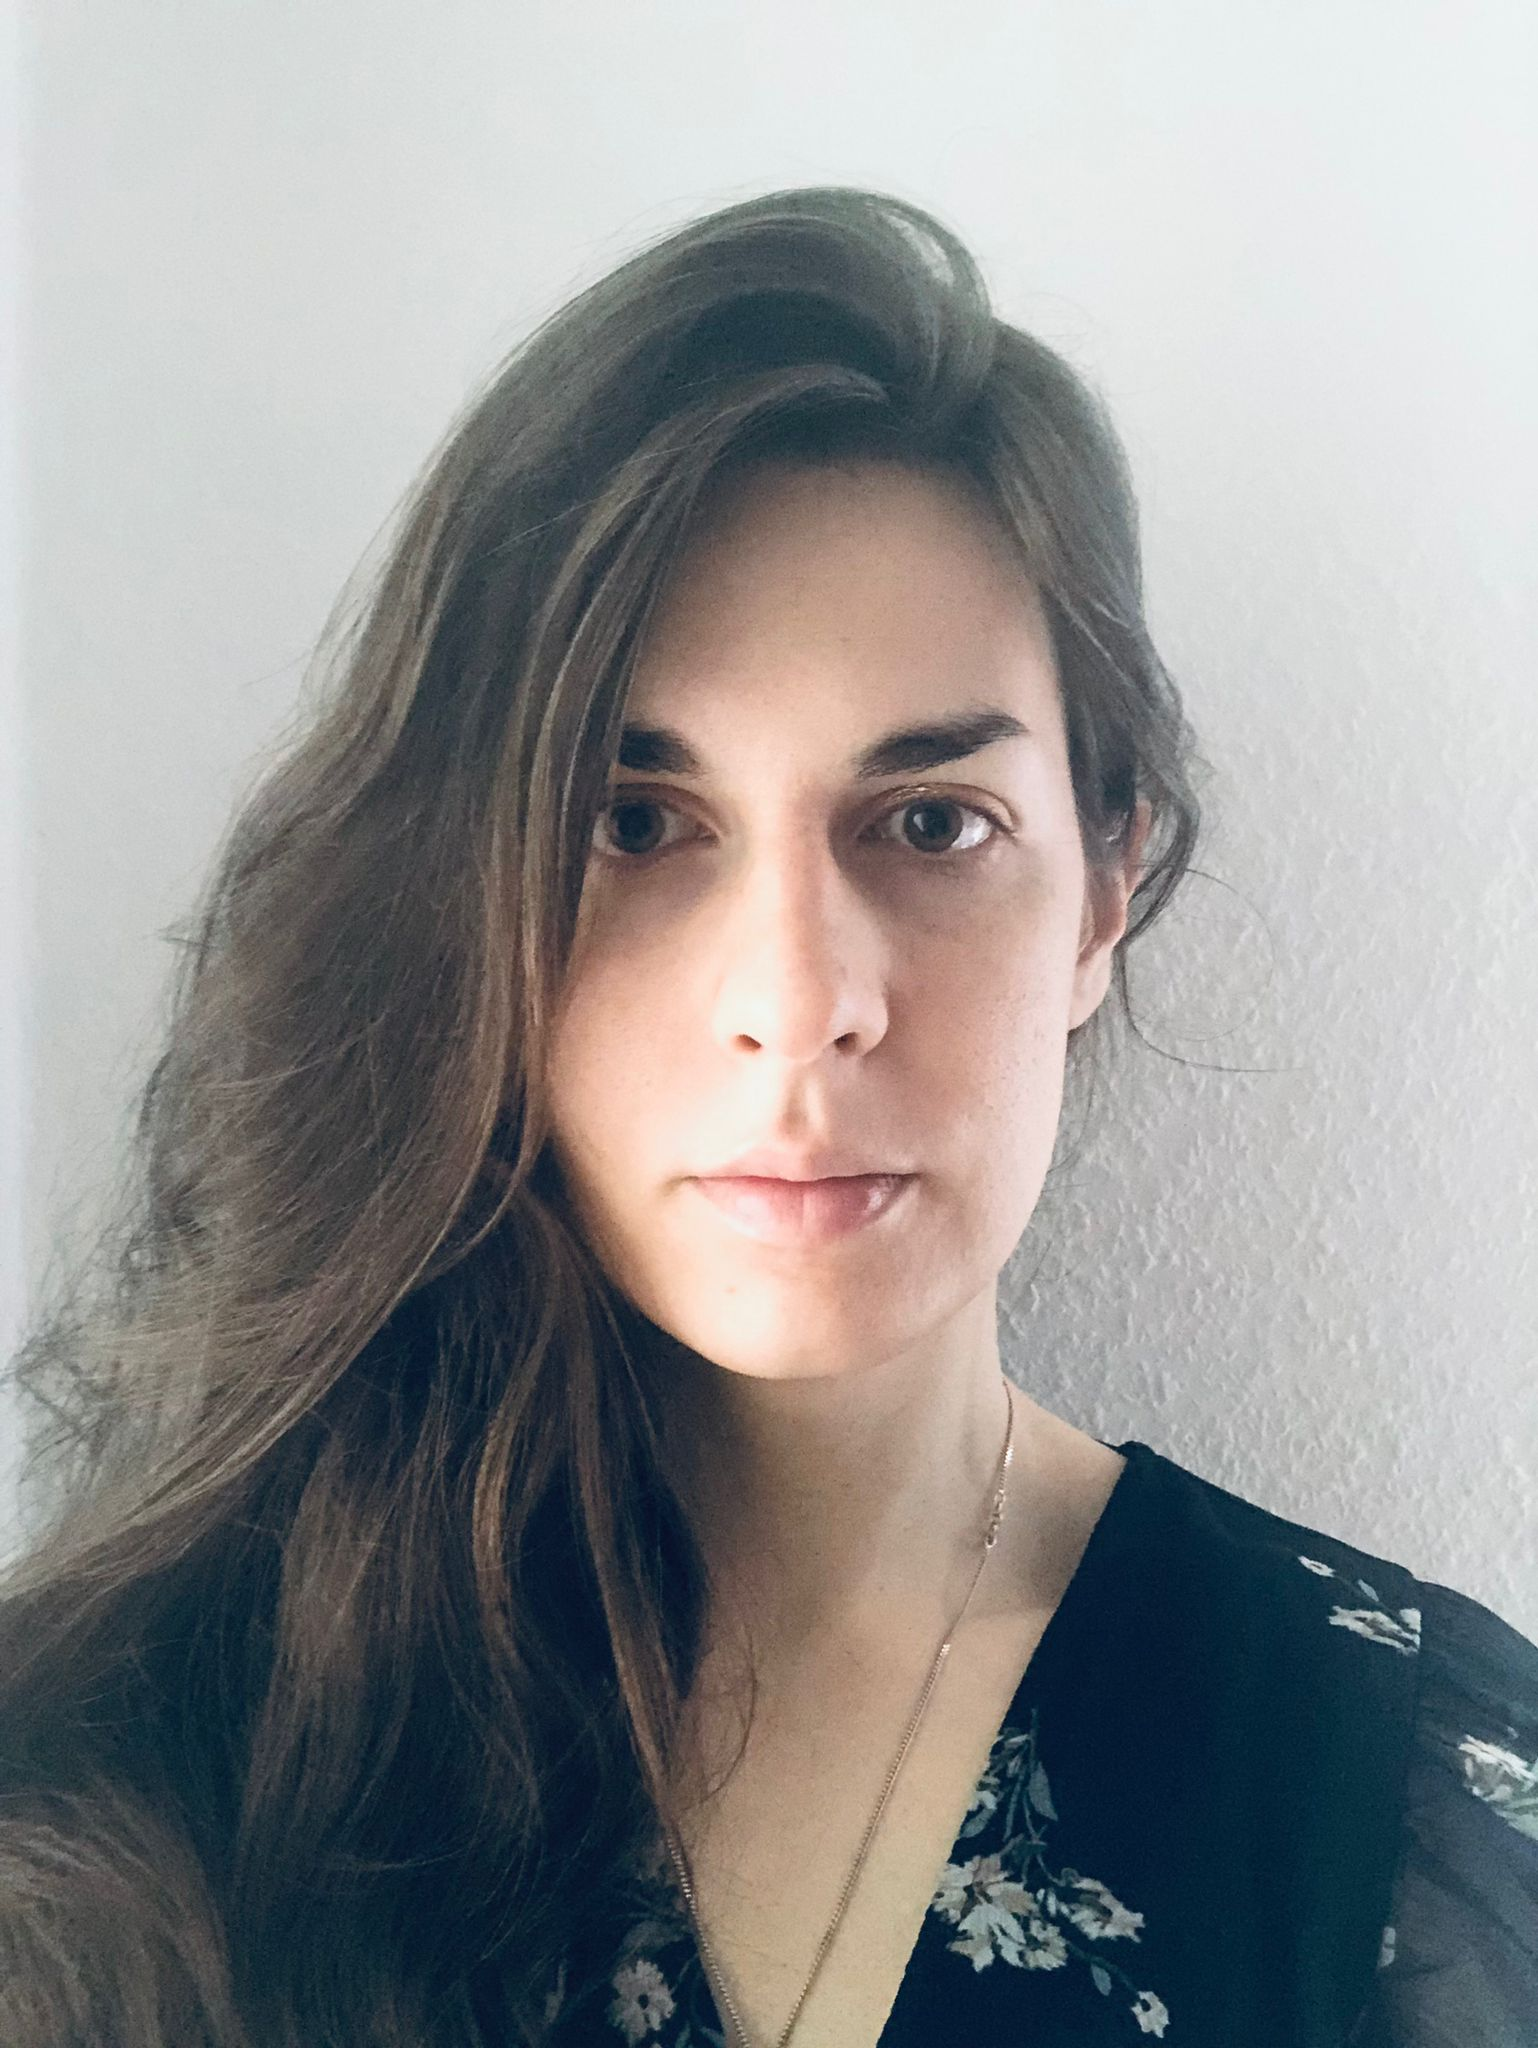
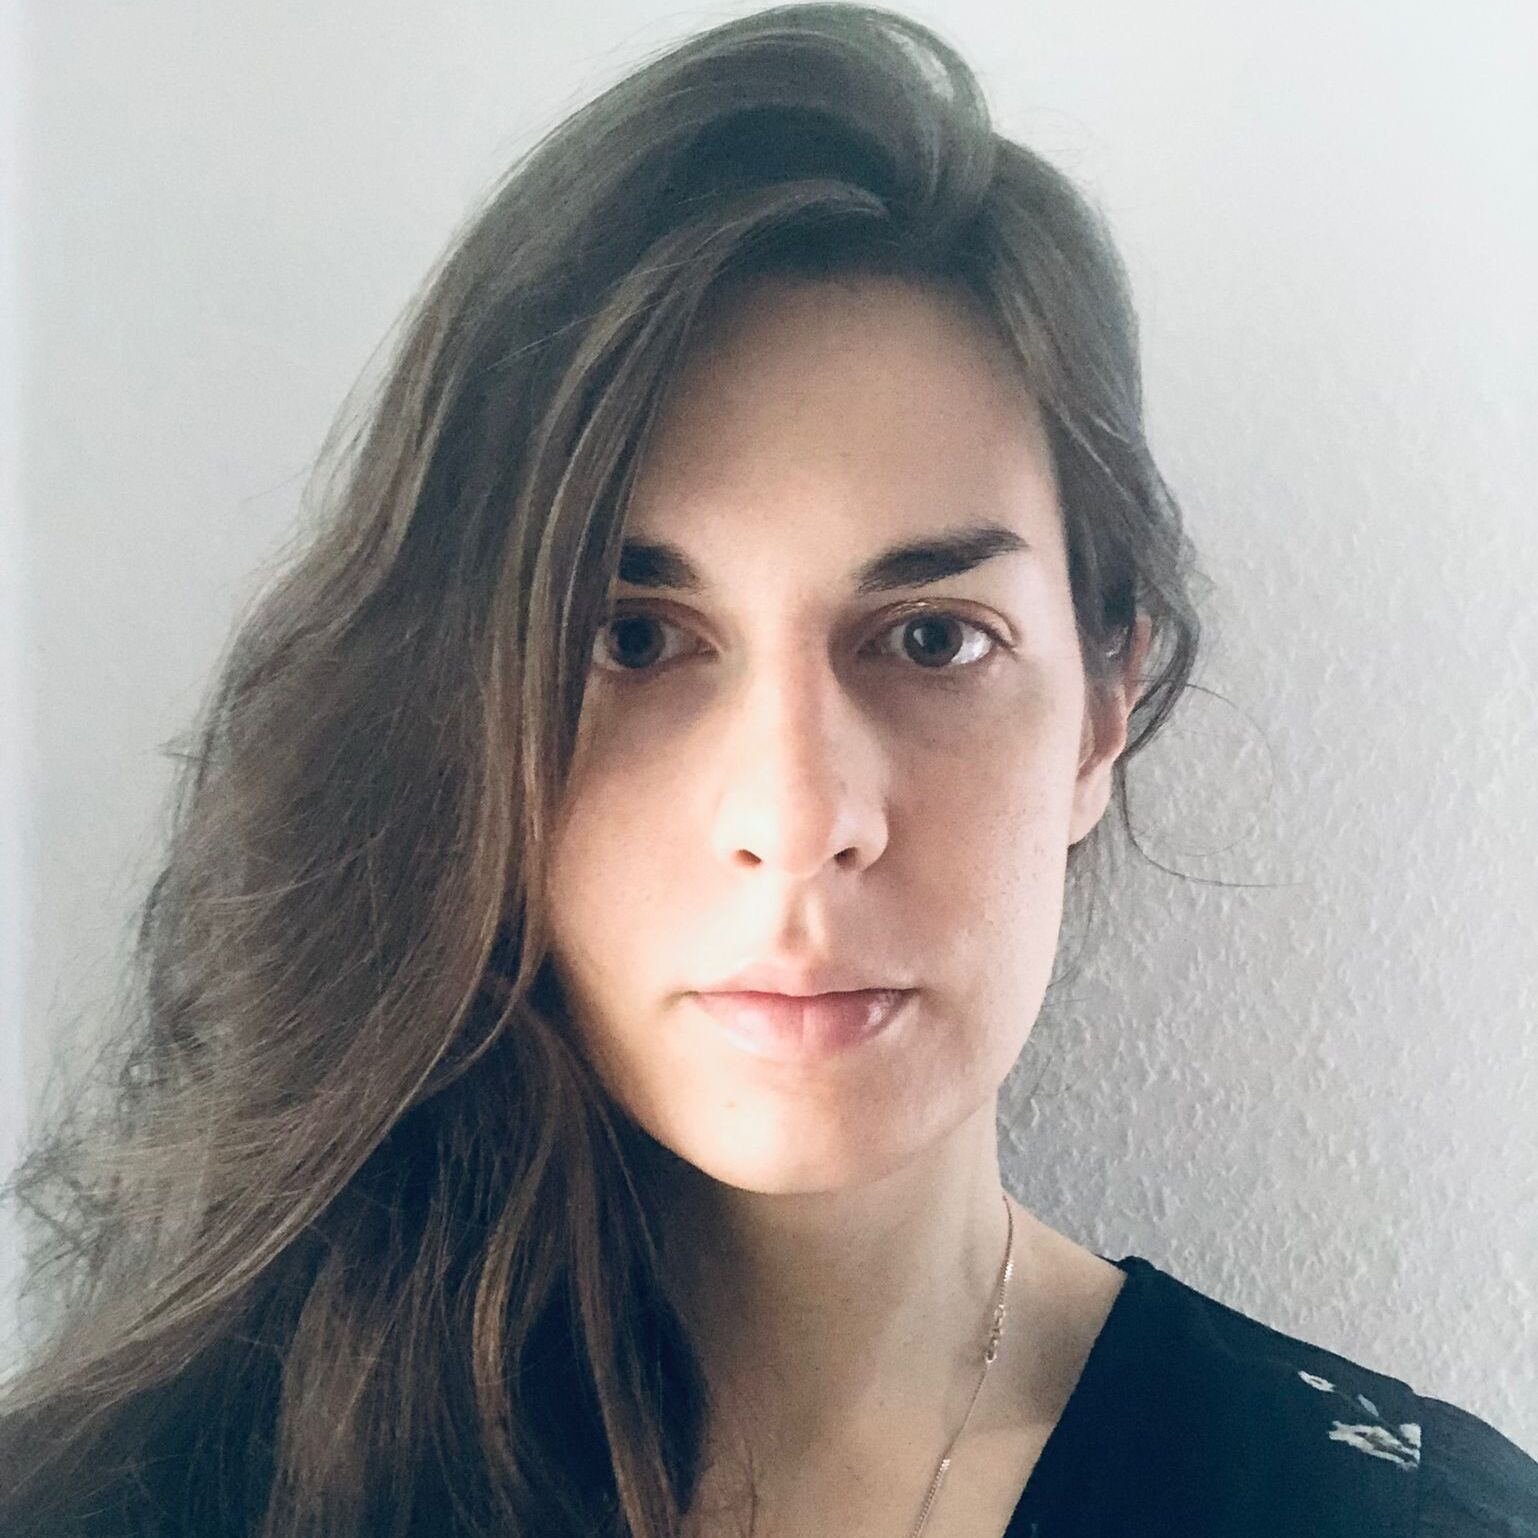
changed colors and connected repos for python collection

diff --git a/index.html b/index.html
@@ -6,7 +6,7 @@
 -->
 <html>
 	<head>
-		<title>Strata by HTML5 UP</title>
+		<title>Gia's Portfolio</title>
 		<meta charset="utf-8" />
 		<meta name="viewport" content="width=device-width, initial-scale=1, user-scalable=no" />
 		<link rel="stylesheet" href="assets/css/main.css" />
@@ -17,7 +17,7 @@
 			<header id="header">
 				<div class="inner">
 					<a href="#" class="image avatar"><img src="images/gia.jpeg" alt="" /></a>
-					<h1><strong>I am Gia</strong>, a Python<br />
+					<h1><strong>I am Gia</strong>, a Python 🐍<br />
 					backend software developer<br />
 					with an interest in Data <br>and Machine Learning.</h1>
 				</div>
@@ -30,33 +30,36 @@
 					<section id="one">
 						<header class="major">
 							<h2>A business head turned into<br />
-							software developer.</h2>
+							software developer</h2>
 						</header>
-						<p>I have been in the tech ecosystem since January 2020, helping building tech product with a business lens. I felt like the transition into the software development world being a natural evolution of my skills. Analytical mind, structure and discipline have always been my best friends when tackling any project. Recently I am using my Python skills for delving into the world of Data Science and Machine Learning.</p>
+						<p>Hey recruiter. If you are here my CV picked your interest 😉.</p>
+						<h4>A little bit about me</h4>
+						<p>I have been in the tech ecosystem since January 2020, helping building tech product with a business lens. I felt like the transition into the software development world being a natural evolution of my skills. Analytical mind, structure and discipline have always been my best friends when tackling any project. Recently I am using my Python skills for delving into the world of Data Science and Machine Learning.<br>Being able to learn new skills, overcoming challenges and having and coaching management style is what brings the best ouf of me.<br> <br>Have a look at my projects below to access the git repositories. I can gladly show the functionalities of each in a Zoom call.</p>
+						<!--
 						<ul class="actions">
 							<li><a href="#" class="button">Learn More</a></li>
-						</ul>
+						</ul>-->
 					</section>
 
 				<!-- Two -->
 					<section id="two">
-						<h2>Recent Work</h2>
+						<h2>My Projects</h2>
 						<div class="row">
 							<article class="col-6 col-12-xsmall work-item">
 								<a href="images/fulls/Trawell.png" class="image fit thumb"><img src="images/thumbs/Trawell.png" alt="" /></a>
-								<h3> <a href="https://github.com/Erak93/Localife">TraWell</a></h3>
+								<h3> <a href="https://github.com/Erak93/Localife">TraWell 🧭</a></h3>
 								<h6>Web Dev (Django)</h6>
 								<p>A travel platform to connect less known destination to tourist seeking authentic experiences.</p>
 							</article>
 							<article class="col-6 col-12-xsmall work-item">
-								<a href="images/fulls/python.png" class="image fit thumb"><img src="images/thumbs/python.png" alt="" /></a>
-								<h3><a href="https://github.com/Erak93/Python-scripts-collection">Python collection</a></h3>
+								<a href="images/fulls/scripts.png" class="image fit thumb"><img src="images/thumbs/python.png" alt="" /></a>
+								<h3><a href="https://github.com/Erak93/Python-scripts-collection">Python collection 🐍</a></h3>
 								<h6>Python scripts</h6>
 								<p>A collection of simple python scripts, from a Caeser Cypher to a silent auction program.</p>
 							</article>
 							<article class="col-6 col-12-xsmall work-item">
 								<a href="images/fulls/03.jpg" class="image fit thumb"><img src="images/thumbs/03.jpg" alt="" /></a>
-								<h3>Tortor metus commodo</h3>
+								<h3>Data science project</h3>
 								<p>Lorem ipsum dolor sit amet nisl sed nullam feugiat.</p>
 							</article>
 							<article class="col-6 col-12-xsmall work-item">
@@ -75,9 +78,10 @@
 								<p>Lorem ipsum dolor sit amet nisl sed nullam feugiat.</p>
 							</article>
 						</div>
+						<!--
 						<ul class="actions">
 							<li><a href="#" class="button">Full Portfolio</a></li>
-						</ul>
+						</ul> -->
 					</section>
 
 				<!-- Three -->
@@ -443,15 +447,17 @@ print 'It took ' + i + ' iterations to sort the deck.';</code></pre>
 		<!-- Footer -->
 			<footer id="footer">
 				<div class="inner">
+					<p>Contacts:</p>
 					<ul class="icons">
-						<li><a href="#" class="icon brands fa-twitter"><span class="label">Twitter</span></a></li>
-						<li><a href="#" class="icon brands fa-github"><span class="label">Github</span></a></li>
-						<li><a href="#" class="icon brands fa-dribbble"><span class="label">Dribbble</span></a></li>
-						<li><a href="#" class="icon solid fa-envelope"><span class="label">Email</span></a></li>
+						<!--<li><a href="#" class="icon brands fa-twitter"><span class="label">Twitter</span></a></li>-->
+						<li><a href="https://github.com/Erak93" class="icon brands fa-github"><span class="label">Github</span></a></li>
+						<!--<li><a href="#" class="icon brands fa-dribbble"><span class="label">Dribbble</span></a></li>-->
+						<li><a href="mailto:giannicolaciudino@gmail.com" class="icon solid fa-envelope"><span class="label">Email</span></a></li>
 					</ul>
+					<!--
 					<ul class="copyright">
 						<li>&copy; Untitled</li><li>Design: <a href="http://html5up.net">HTML5 UP</a></li>
-					</ul>
+					</ul> -->
 				</div>
 			</footer>
 

diff --git a/assets/css/main.css b/assets/css/main.css
@@ -2138,6 +2138,7 @@ input, select, textarea {
 		.image.avatar {
 			border-radius: 100%;
 			
+			
 		}
 
 			.image.avatar:before {
@@ -2146,8 +2147,10 @@ input, select, textarea {
 
 			.image.avatar img {
 				border-radius: 100%;
-				width: 200px;
-				height: 210px;
+				border: solid rgb(212, 231, 1);
+				width: 250;
+				
+				height: 250px;
 			}
 
 /* List */
@@ -2597,7 +2600,7 @@ input, select, textarea {
 		justify-content: space-between;
 		background-color: #1f1815;
 		background-attachment: scroll,								scroll;
-		background-image: url("images/overlay.png"), url("../../images/bg.jpg");
+		background-image: url("images/overlay.png"), url("https://images.unsplash.com/photo-1579546928937-641f7ac9bced?ixlib=rb-4.0.3&ixid=M3wxMjA3fDB8MHxwaG90by1wYWdlfHx8fGVufDB8fHx8fA%3D%3D&auto=format&fit=crop&w=1878&q=80");
 		background-position: top left,							top left;
 		background-repeat: repeat,								no-repeat;
 		background-size: auto,								150%;
